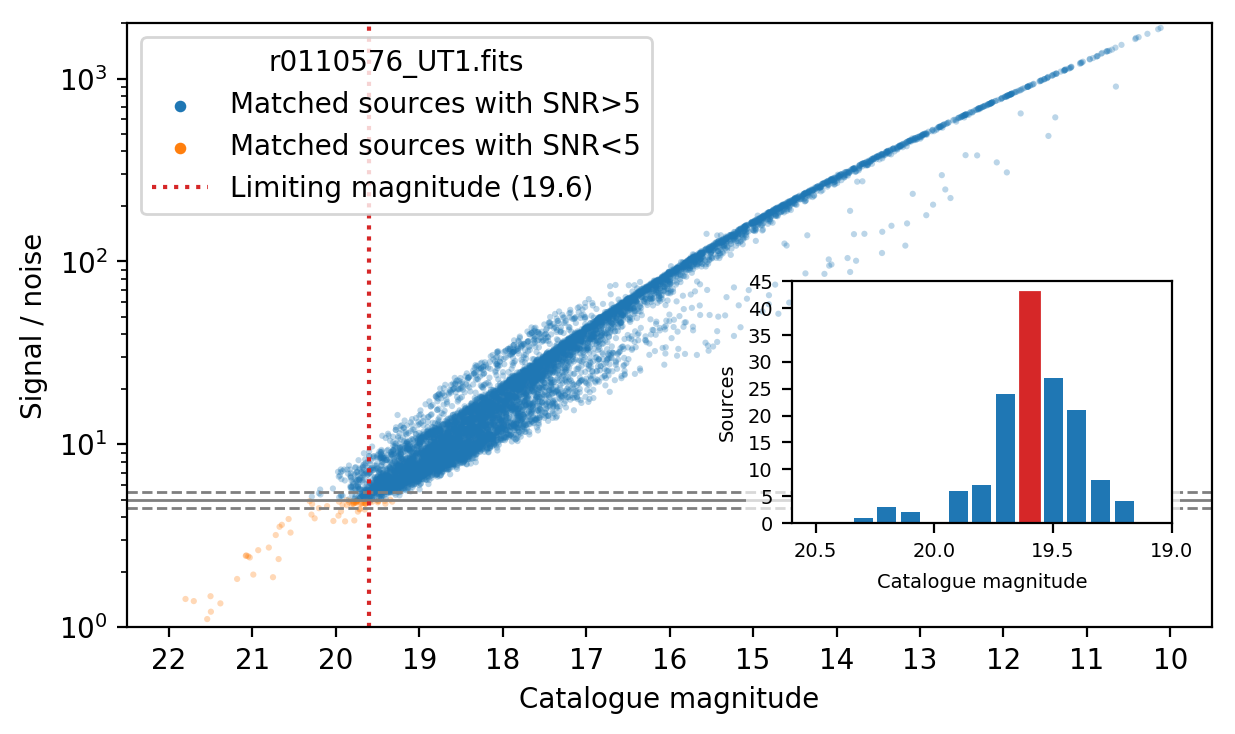
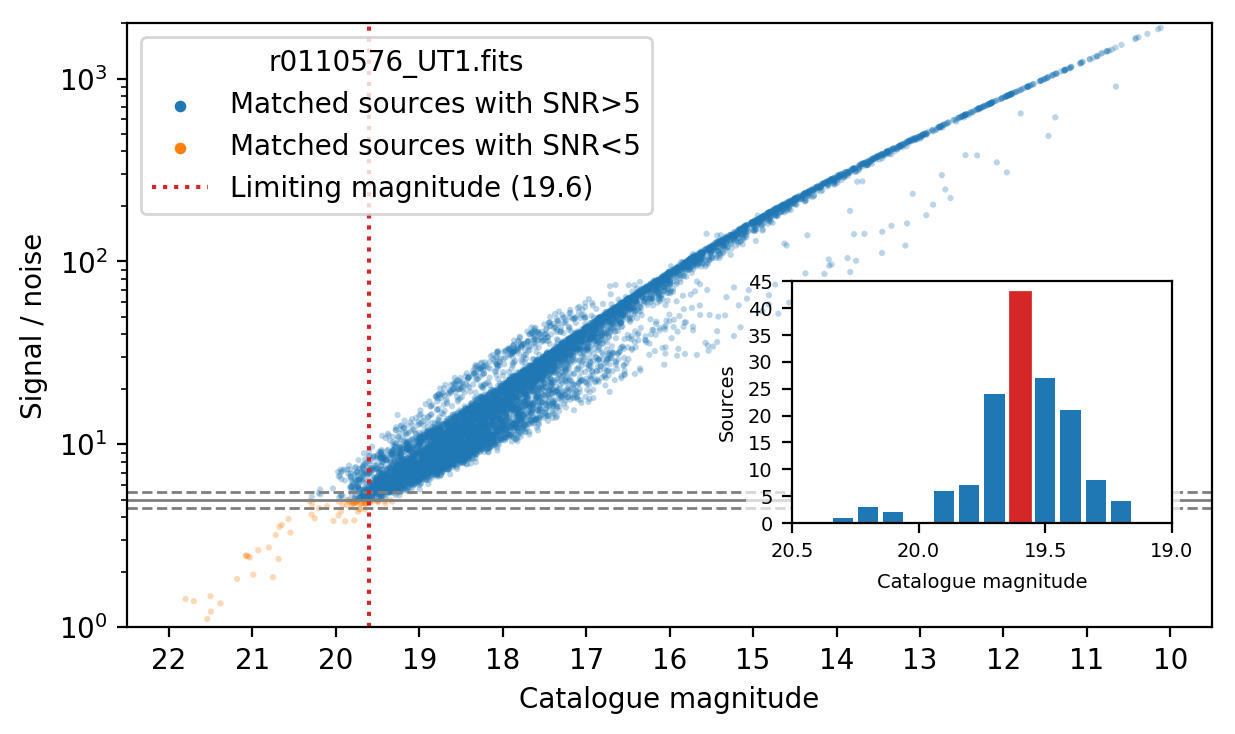
A few little hardware ideas

Changed region(s): [[0.6769, 0.3896, 0.9231, 0.7793], [0.6154, 0.7193, 0.6769, 0.7793]]

diff --git a/chapters/hardware.tex b/chapters/hardware.tex
@@ -275,7 +275,7 @@ The key features of a photon transfer curve are common for all CCDs, and are sho
             Camera 5 & 0.62 & 0.63 & 12.3 & 12.8 & 0.40 & 0.40 & 64544 & 64550 \\
             Camera 6 & 0.63 & 0.62 & 11.8 & 12.6 & 0.40 & 0.40 & 64554 & 64545 \\
             Camera 7 & 0.62 & 0.62 & 13.1 & 12.5 & 0.41 & 0.39 & 64544 & 64552 \\
-            Camera 8 & 0.62 & 0.62 & 14.3 & 12.2 & 0.41 & 0.39 & 64529 & 64522 \
+            Camera 8 & 0.62 & 0.62 & 14.3 & 12.2 & 0.41 & 0.39 & 64529 & 64522 \\
         \end{tabular}
     \end{center}
     \caption[Gain, read-out noise, fixed-pattern noise and saturation values]{
@@ -285,7 +285,9 @@ The key features of a photon transfer curve are common for all CCDs, and are sho
 
 Photon transfer curves were constructed for all eight cameras, by taking flat fields of varying exposure times between \SI{0.01}{\second} and \SI{90}{\second}. Twelve 50$\times$50 pixel regions were selected across the field, and the mean and standard deviation of the pixel values within each region were plotted to form the PTC for each camera, shown in \aref{fig:ptcs}. \aref{eq:ptc} was then fitted to the data, and the resulting values for the gain ($g$), read-out noise ($R$) and fixed-pattern noise ($k_\text{FP}$) parameters are given in \aref{tab:ptc}. The saturation level for each channel was also measured as the maximum signal (the point where the PTC turns over and the noise drops), these values are also given in \aref{tab:ptc}.
 
-The gain values are all around 0.6 \elec/ADU, and would have been set as such to maximise the dynamic range based on the full well capacity. The saturation levels are all around 64550, and 64550 $\times$ 0.6 $\approx$ 39,000 \elec, which matches the advertised 40,300 capacity. The read-out noise values also match the FLI specifications, which advertise a typical read-out noise of 12 \elec{} for the MicroLine cameras. Finally, the fixed-pattern noise is a low fraction of the signal ($<0.5\%$). This was to be expected, as modern CCD sensors have very low pixel non-uniformities.
+The gain values are all around 0.6 \elec/ADU, and would have been set as such to maximise the dynamic range based on the full well capacity (65535\,$\times$\,0.6\,$\approx$\,40,000 \elec). The saturation levels are all around 64550 ADU, but note these images were bias-subtracted and \aref{sec:bias} found the bias levels were around 980--1000 ADU.\@ The read-out noise values match the FLI specification of 12 \elec{} for the MicroLine cameras, and also match the errors found in the master biases. Finally, the fixed-pattern noise is a very small fraction of the signal ($<0.5\%$) which suggests a low pixel non-uniformity.
+
+\newpage
 
 \begin{figure}[p]
     \begin{center}
@@ -748,7 +750,7 @@ The Baader filters were designed for amateur astronomers and astro-photographers
 
 \newpage
 
-\begin{figure}[t]
+\begin{figure}[p]
     \begin{center}
         \includegraphics[width=\textwidth]{images/throughput/filt_comp1.png}
     \end{center}
@@ -757,7 +759,7 @@ The Baader filters were designed for amateur astronomers and astro-photographers
     }\label{fig:filter_comparison1}
 \end{figure}
 
-\begin{figure}[t]
+\begin{figure}[p]
     \begin{center}
         \includegraphics[width=\textwidth]{images/throughput/filt_comp2.png}
     \end{center}
@@ -816,7 +818,7 @@ The complete GOTO throughput is a combination of all of the elements discussed i
 
 \begin{figure}[t]
     \begin{center}
-        \includegraphics[width=\textwidth]{images/throughput/ext.png}
+        \includegraphics[width=\textwidth]{images/throughput/ext2.png}
     \end{center}
     \caption[Atmospheric extinction in the GOTO filters]{
         Atmospheric extinction in the GOTO filters, in magnitude per airmass. The measured extinction curve from \citet{tn31} is shown by the black dashed line, and the filled lines show the extinction curve multiplied by the filter bandpasses from \aref{fig:filters} (shown by the coloured dotted lines).
@@ -831,7 +833,7 @@ The amount of light lost due to absorption and scattering in the atmosphere will
 
 Atmospheric extinction can be treated like the throughput elements considered in \aref{sec:total_throughput}, except it is not included in the throughput model as it is not a function of the GOTO hardware. For the \textit{LRGB} filters the mean extinction can be found by multiplying the extinction curve by the filter bandpasses, as shown in \aref{fig:extinction}, and then dividing the filled areas under each curve by the area of the unmodified filter bandpass. These extinction values are given in magnitudes per airmass in \aref{tab:throughput_extinction}.
 
-Another atmospheric factor unique to observing from La Palma is the \textit{calima}, large quantities of sand and dust from the Sahara Desert which can be carried over the site by westerly winds. The calima occurs most often in the summer, and analysis of dust-affected images has shown that the additional extinction is not wavelength dependent \citep{ORM_dust}. The extinction curve measured by \citep{tn31} was based on observations taken on dust-free nights, and the values in \aref{tab:throughput_extinction} do not include any additional extinction to model the effects of the calima. Based on analysing archival images over 20 years, \citet{ORM_dust} suggests the calima can increase the extinction by approximately 0.04 mag/airmass.
+Another atmospheric factor unique to observing from La Palma is the \textit{calima}, large quantities of sand and dust from the Sahara Desert which can be carried over the site by westerly winds. The calima occurs most often in the summer, and analysis of dust-affected images has shown that the additional extinction is not wavelength dependent \citep{ORM_dust}. The extinction curve measured by \citet{tn31} was based on observations taken on dust-free nights, and the values in \aref{tab:throughput_extinction} do not include any additional extinction to model the effects of the calima. Based on analysing archival images over 20 years, \citet{ORM_dust} suggests heady calima could increase the extinction by up to 0.04 mag/airmass.
 
 \begin{table}[t]
     \begin{center}
@@ -1167,22 +1169,22 @@ Each image was processed using the standard GOTOphoto pipeline described in \are
         \includegraphics[width=\textwidth]{images/throughput/zeropoint_real.png}
     \end{center}
     \caption[Finding the observed zeropoint from a GOTO image]{
-        Finding the observed zeropoint from a GOTO image.
+        Finding the observed zeropoint from a GOTO image. This particular frame was taken with UT1, the first of a set of three in the \textit{L} filter. It contains 8,271 matched sources, of which 8,188 have a signal-to-noise ratio (SNR) of 5 or less.
     }\label{fig:zeropoint}
 \end{figure}
 
 In order to find the zeropoint for each image a linear function was fitted to the measured instrumental magnitudes of each source as a function of the catalogue magnitude of the star it was matched against, with the $y$-intercept being equal to the zeropoint for that image. This is shown in \aref{fig:zeropoint} for one of the \textit{L}-band images. To exclude faint sources with large errors, only sources with a signal-to-noise ratio of 5$\sigma$ or above were included in the fit. This was repeated for every image, and the zeropoints for each are given in \aref{tab:zps_lms}.
 
-The theoretical zeropoints found in \aref{sec:model_zeropoints} were calculated for zero-magnitude stars above the atmosphere, i.e.\ not including the effects of atmospheric extinction described in \aref{sec:atmosphere}. Obviously the real zeropoints measured from GOTO images will include this effect, and so in order to compare the theoretical values to the observed zeropoints the extinction coefficients from \aref{tab:throughput_extinction} were subtracted (multiplied by 1.08, the airmass of the source at the time it was observed) from the theoretical values. This was done for each filter using the AB magnitudes from \aref{tab:pysynphot_zeropoints}, and the new theoretical zeropoints are given in \aref{tab:zps_comparison} along with the best observed zeropoint from each set of three images.
+The theoretical zeropoints found in \aref{sec:model_zeropoints} were calculated for zero-magnitude stars above the atmosphere, i.e.\ not including the effects of atmospheric extinction described in \aref{sec:atmosphere}. Obviously the real zeropoints measured from GOTO images will include this effect, and so in order to compare to the observed zeropoints the extinction coefficients from \aref{tab:throughput_extinction} were subtracted (multiplied by 1.08, the airmass of the source at the time it was observed) from the theoretical values. This was done for each filter using the AB magnitude zeropoints from \aref{tab:pysynphot_zeropoints}, as both the PS1 and APASS catalogues use AB magnitudes. The new theoretical zeropoints are given in \aref{tab:zps_comparison}, along with the best observed zeropoint from each set of three images.
 
-To measure the limiting magnitude from each image, the catalogue magnitude of each source was compared to the ratio of the source counts to the noise measured by Source Extractor, plotted in \aref{fig:lim_mag}. Sources with a signal-to-noise ratio between 4.5 and 5.5 were plotted on a histogram with bins of 0.1 mag, and the $5\sigma$ limiting magnitude was taken as the bin containing the most sources. The best limiting magnitudes from each set of three are given in \aref{tab:lms_comparison}, along with the theoretical dark-time limiting magnitudes from \aref{tab:lim_mags}.
+To measure the limiting magnitude from each image, the catalogue magnitude of each source was compared to the ratio of the source counts to the noise measured by Source Extractor, plotted in \aref{fig:lim_mag}. Sources with a signal-to-noise ratio between 4.5 and 5.5 were sorted into bins with a width of 0.1 mag, and the $5\sigma$ limiting magnitude was taken as the bin containing the most sources (as shown in the inset of \aref{fig:lim_mag}). The best limiting magnitudes from each set of three are given in \aref{tab:lms_comparison}, along with the theoretical dark-time limiting magnitudes from \aref{tab:lim_mags}.
 
 \begin{figure}[t]
     \begin{center}
         \includegraphics[width=\textwidth]{images/throughput/limiting_mag_real.png}
     \end{center}
     \caption[Finding the limiting magnitude from a GOTO image]{
-        Finding the limiting magnitude from a GOTO image. The catalogue magnitude of sources with SNR of between 4.5 and 5.5 (shown by the \textcolorbf{Gray}{grey} horizontal lines) are plotted on a histogram with bins of 0.1 mag (inset), the limiting magnitude is the magnitude of the bin with the highest number of sources (highlighted in \textcolorbf{Red}{red}).
+        Finding the limiting magnitude from a GOTO image. The catalogue magnitude of sources with SNR of between 4.5 and 5.5 (shown by the \textcolorbf{Gray}{grey} horizontal lines) are plotted on the inset histogram with bins of 0.1 mag, the limiting magnitude is the magnitude of the bin with the highest number of sources (highlighted in \textcolorbf{Red}{red}).
     }\label{fig:lim_mag}
 \end{figure}
 
@@ -1331,7 +1333,7 @@ To measure the limiting magnitude from each image, the catalogue magnitude of ea
 
 \clearpage
 
-In most cases the observed zeropoints and limiting magnitudes are very close to the theoretical values. Further images taken over more nights are needed to make any firm conclusions, but a few trends are clear. UT3 consistently has better zeropoints than the other unit telescopes, which might be because its mirrors were re-aluminised and returned to La Palma only a month before the images were taken (see \aref{sec:timeline}). Therefore the difference in the observed and theoretical zeropoints may be due to a lower mirror reflectivity than assumed in throughput model in \aref{sec:optics} (e.g.\ due to dust build up on the mirrors). It also seems that the throughput in the \textit{G} band has been underestimated, as the observations taken in the \textit{G} filter consistently have higher zeropoints and better limiting magnitudes than predicted. This may be due to the bandwidth being wider than modelled, as any other change in throughput would also affect the other filters.
+In most cases the observed zeropoints and limiting magnitudes are very close to the theoretical values. Further images taken over more nights are needed to make any firm conclusions, but a few trends are clear. UT3 consistently has better zeropoints than the other unit telescopes, which might be because its mirrors were re-aluminised and returned to La Palma only a month before the images were taken (see \aref{sec:timeline}). Therefore the difference in the observed and theoretical zeropoints may be due to a lower mirror reflectivity than assumed in throughput model in \aref{sec:optics} (e.g.\ due to dust build up on the mirrors). It also seems that the throughput in the \textit{G} band has been underestimated, as the observations taken in the \textit{G} filter consistently have higher zeropoints and better limiting magnitudes than predicted. This may be due to the bandwidth being wider than modelled, as any other change in throughput would also affect the other filters. Alternatively, it may indicate that matching the Baader \textit{G} filter to the PS1 catalogue taken in the Pan-STARRS \textit{g} filter is not a valid comparison, and perhaps a different reference catalogue should be used.
 
 \end{colsection}
 
